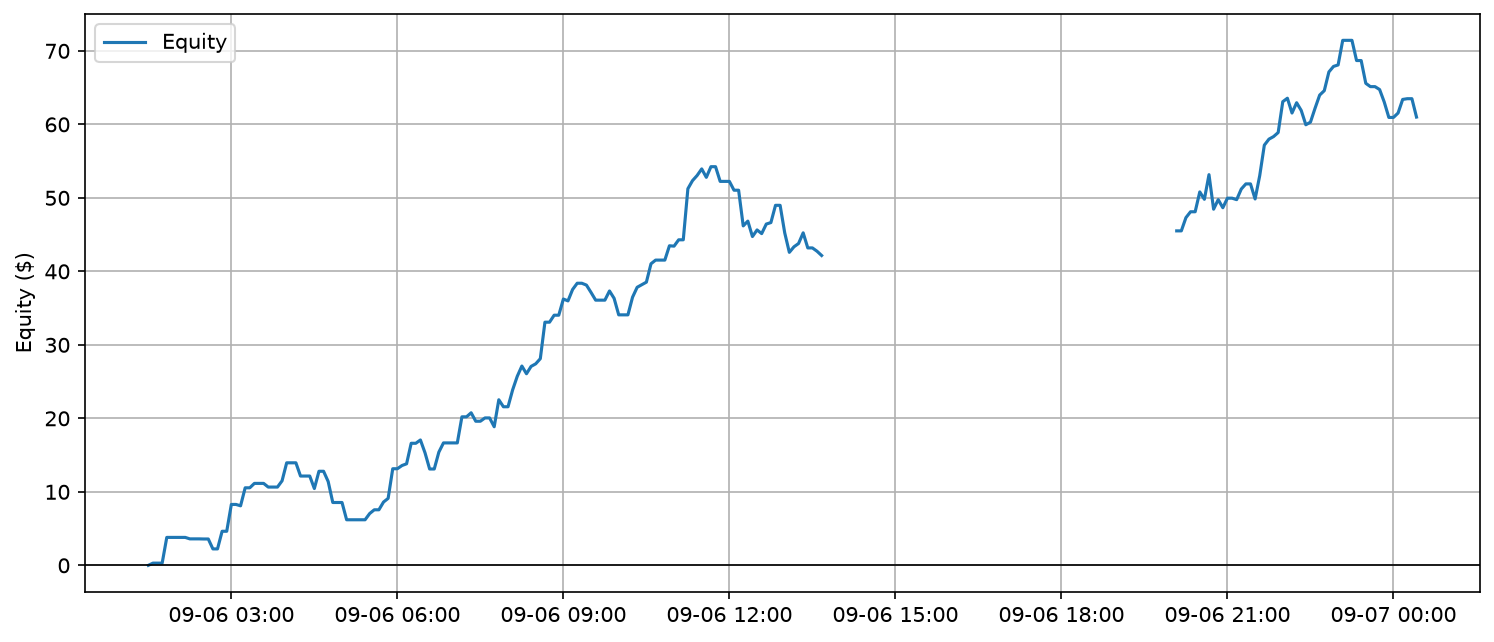
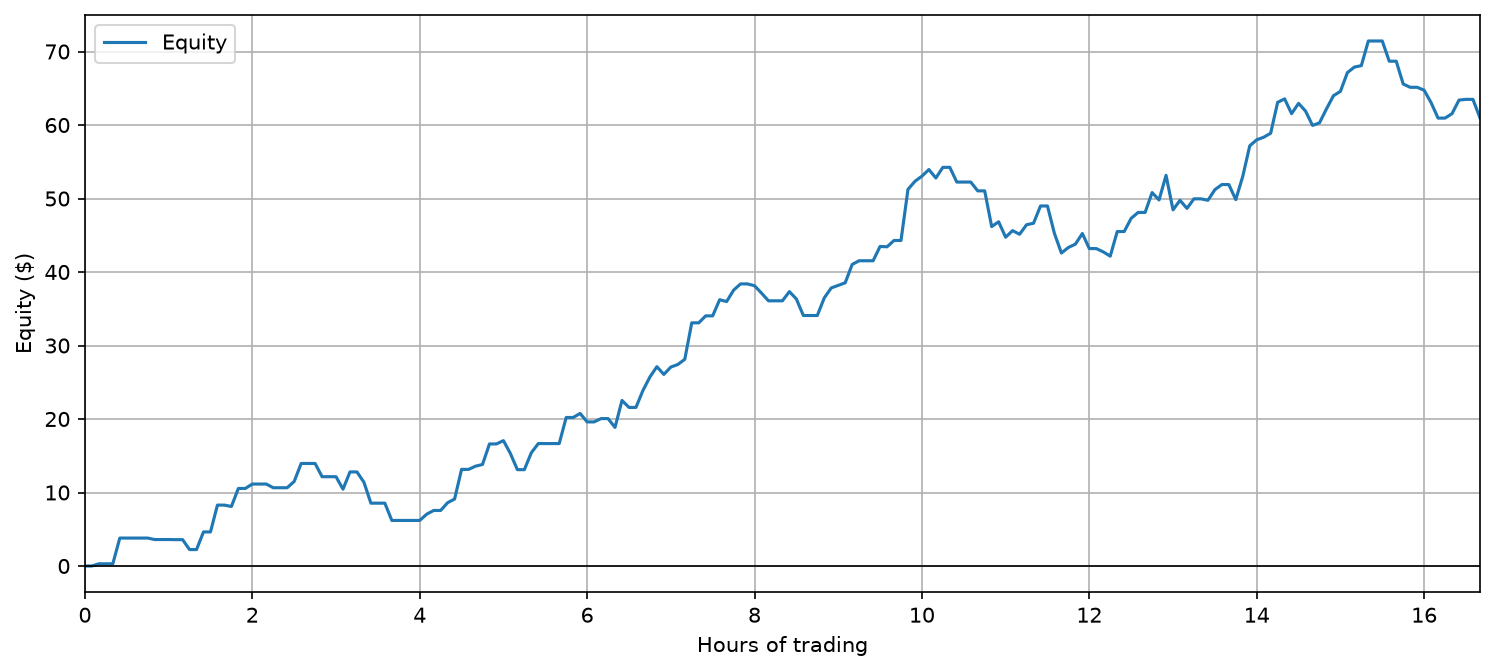
Apply the essay's second revision
Add the order book primer and its diagram to the discrete markets section,
replace the generated experiment notes with the author's own (with a ladder
diagram and the loop period sweeps), drop the first stochastic control
policy chart, and close the gaps in the live run and PPO training charts.

diff --git a/market-making/index.html b/market-making/index.html
@@ -17,6 +17,11 @@ pre { white-space: pre-wrap; overflow-wrap: anywhere; font-size: 13px; }
 figure { margin: 1.5em 0; }
 figure img { display: block; max-width: 100%; height: auto; margin: 0 auto 0.5em; }
 .eq { overflow-x: auto; overflow-y: hidden; }
+ol.facts { list-style: none; counter-reset: fact; padding-left: 2.2em; }
+ol.facts li { counter-increment: fact; text-indent: -1.4em; }
+ol.facts li::before { content: counter(fact) ")"; display: inline-block; width: 1.4em; text-indent: 0; }
+h3.u { font-weight: normal; text-decoration: underline; margin: 1.5em 0 0; }
+h3.u + p { margin-top: 0; }
 </style>
 </head>
 <body>
@@ -63,13 +68,26 @@ figure img { display: block; max-width: 100%; height: auto; margin: 0 auto 0.5em
 
 <h2 id="continuous-vs-discrete-markets">Continuous vs Discrete Markets </h2>
 
-<p>The equations we talked about earlier work under the assumption that the markets they trade are continuous. This means that the minimum price change possible (this is called the tick-size), is small relative to the price of the contract. Truly continuous markets don’t exist. A market that could be effectively modeled as continuous is the Bitcoin market on Binance. The price of Bitcoin is large ($70,000) and the tick size is small ($0.01). On polymarket and other prediction markets, tick sizes are large. Prices exist in a 0.00 to 1.00 range, while their tick sizes are typically $0.01 to $0.001. Using a continuously-modeled equation like AS or GLFT, will fail on these markets.</p>
-
-<p>Once I realized this I completely stopped any further testing and started researching market making for discrete markets.</p>
+<p>The equations we talked about earlier work under the assumption that the markets they trade are continuous. This means that the minimum price change possible (this is called the tick-size), is small relative to the price of the contract. Truly continuous markets don’t exist. A market that could be effectively modeled as continuous is the Bitcoin market on Binance. The price of Bitcoin is large ($70,000) and the tick size is small ($0.01). On polymarket and other prediction markets, tick sizes are large. Prices exist in a 0.00 to 1.00 range, while their tick sizes are typically $0.01 to $0.001. Using a continuously-modeled equation like AS or GLFT, will fail on these markets. Once I realized this I completely stopped any further testing and started researching market making for discrete markets.</p>
 
 <figure>
 <img class="fig-img" src="figs/discrete.png" alt="Polymarket best bid and ask, and histogram of tick changes" loading="lazy">
 <figcaption>Left: the best bid and ask of one 15-minute BTC up/down market. Right: how far the best bid moves each time it changes. Here the $0.01 tick was a median 3.6% of the contract price, vs. about 0.0016 bp of the price for BTC on Binance.</figcaption>
+</figure>
+
+<p>Before we go any deeper, we need to have you (yes, you) develop an accurate mental model of how the actual exchange works to have any hope of creating working strategies. So here are some facts:</p>
+<ol class="facts">
+<li>When an order is sent to the exchange it lands on this thing called a central limit order book (CLOB), this is where buyers (bid orders) and sellers (ask orders) are matched.</li>
+<li>Orders of the same price are placed at the back of that price’s queue</li>
+<li>Orders at the front of the queue get matched first</li>
+<li>If there’s an order waiting at the front of the queue and the opposite order comes in at that order’s price, a match is made, and that trade begins its journey to be confirmed on the polygon blockchain.</li>
+<li>If an order is matched, it is removed from the queue</li>
+<li>If an order is canceled, it is removed from the queue</li>
+</ol>
+
+<figure>
+<img class="fig-img" src="figs/book.png" alt="A central limit order book: a queue of orders at each price" loading="lazy">
+<figcaption>A central limit order book. Each price has its own queue of orders (sizes in shares), and orders are matched from the front of the queue.</figcaption>
 </figure>
 
 
@@ -84,9 +102,8 @@ figure img { display: block; max-width: 100%; height: auto; margin: 0 auto 0.5em
 <p>Following the literature for market-making strategies for discrete markets, quickly brings us to an area of mathematics called Stochastic Optimal Control. This tries to answer how to make optimal decisions under unpredictable conditions. Basically, this will output an action based on a handful of inputs (external factors like order intensities and spread, and internal factors like current position). The external factors are modeled as a markov process, where one combination of market states has a given probability of jumping to another combination of market states. Given these probabilities, and the current position, the <em>potential future value</em> of each decision can be calculated through a process called backward induction. In this case, a decision is which orders should be placed (buy or sell) and how many ticks away from the mid price they should be placed. If there’s a low rate of buy market orders coming into the clob, and the position is very positive, the best decision would most likely be to place a sell order very close to the mid, as there is much urgency to offload inventory in order to keep the bot delta neutral.</p>
 
 <figure>
-<img class="fig-img" src="figs/soc_policy.png" alt="Stochastic optimal control policy" loading="lazy">
 <img class="fig-img" src="figs/soc_policy_drift.png" alt="Stochastic optimal control policy" loading="lazy">
-<figcaption>Optimal policy from backward induction at the start of the session, by inventory and alpha state (0 is the most bearish of the seven states, 6 the most bullish). Top: the policy notebook's model. Bottom: the version with the alpha drift term (inventory penalty 0.05, chosen for illustration because the tuned value was not saved).</figcaption>
+<figcaption>Optimal policy from backward induction at the start of the session, by inventory and alpha state (0 is the most bearish of the seven states, 6 the most bullish), with the alpha drift term (inventory penalty 0.05, chosen for illustration because the tuned value was not saved).</figcaption>
 </figure>
 
 
@@ -123,7 +140,7 @@ figure img { display: block; max-width: 100%; height: auto; margin: 0 auto 0.5em
 
 <figure>
 <img class="fig-img" src="figs/rl_curve.png" alt="PPO trades per episode falling toward zero" loading="lazy">
-<figcaption>Trades per episode during PPO training (stable-baselines3 logs). Steps 344k to 1.19M were trained but not logged.</figcaption>
+<figcaption>Trades per episode during PPO training (stable-baselines3 logs). Steps 344k to 1.19M were trained but not logged, so they are cut out of the x-axis.</figcaption>
 </figure>
 
 
@@ -213,7 +230,7 @@ figure img { display: block; max-width: 100%; height: auto; margin: 0 auto 0.5em
 
 <figure>
 <img class="fig-img" src="figs/live_run.png" alt="Live equity curve" loading="lazy">
-<figcaption>Third live test: 200 five-minute windows from Sep 6 01:25 to Sep 7 00:25 UTC (the gap is a rate-limit halt and restart). Wallet PnL was $60.99; maker rebates, paid out the next day, add about $4.6 (as modelled by the bot), for about $66 in total.</figcaption>
+<figcaption>Third live test: 200 five-minute windows from Sep 6 01:25 to Sep 7 00:25 UTC, plotted by time spent trading (a rate-limit halt and restart is left out). Wallet PnL was $60.99; maker rebates, paid out the next day, add about $4.6 (as modelled by the bot), for about $66 in total.</figcaption>
 </figure>
 
 
@@ -226,25 +243,28 @@ figure img { display: block; max-width: 100%; height: auto; margin: 0 auto 0.5em
 <h2 id="more-strategies">More Strategies </h2>
 
 <p>Now we have a highly-accurate backtest, proven by days of live-trading. We can start asking and testing any questions, and get a probable answer: what happens if we trade multiple assets at the same time? Maybe we could trade two highly correlated markets (like the btc-updown 15m and 5m), and could this smooth out PnL? What happens if we trade low-activity markets, how does that compare with the high-activity one (btc-updown 5m) in terms of profitability and sharpe?</p>
-<div class="experiments">
-<h3>Trade several markets at once?</h3><p>The frozen best strategy was run on BTC and ETH, 5- and 15-minute markets, each with its own models. Together they made about $1,020 over Aug 13 – Sep 13, but the combined Sharpe was about the same as BTC 5m alone on two of three splits: diversification without extra edge.</p>
-<h3>Two correlated markets (BTC 15m + 5m)?</h3><p>On an earlier version of the simulator, trading both books together was exactly the sum of trading each: about 19% more profit, at the same Sharpe. It did not smooth PnL — the 15-minute book added losing sessions (8 → 13 of 96 on validation). No signal combining the two books helped, and a later test of cancelling quotes when a sibling market moved against them did no better than a placebo.</p>
-<h3>Low- vs high-activity markets?</h3><p>Profit and Sharpe stability ranked with activity. BTC 5m (about 420 trades a minute) was the only market with a consistently positive Sharpe; ETH 15m, roughly fifteen times quieter, lost money.</p>
-<figure><img class="fig-img" src="figs/multi_market.png" alt="PnL and activity by market" loading="lazy"><figcaption>The same strategy on four markets: backtest PnL and trades per minute.</figcaption></figure>
-<h3>Other experiments</h3><ul>
-<li><b>Ladders.</b> One order per side beat every deeper ladder (all seven lost to one rung on validation).</li>
-<li><b>When to stop quoting.</b> Quote right up to the bell: 43% of fills, and most of the profit, came in the last minute; stopping 30 s or more early cost money.</li>
-<li><b>What the simulator fixes were worth.</b> Re-scoring one strategy on a fixed sample under each cumulative backtester patch took its return from +$1,851 to +$27.52; the patch for the book revealing a fill before the trade event alone flipped the sign.</li>
-<li><b>Threshold tuning.</b> Tuning the two entry thresholds improved training and made validation worse in 19 of 19 settings.</li>
-<li><b>Order size.</b> Bigger clips did not make more money: edge per share fell, and 40-share orders were the worst.</li>
-<li><b>Skipping bad sessions.</b> A model over 381 pre-session features could not tell profitable 5-minute windows from unprofitable ones beyond chance.</li>
-<li><b>Liquidity rewards.</b> Farming Polymarket&#x27;s liquidity rewards adds income, but only reaches a positive Sharpe at implausibly high reward rates.</li>
-<li><b>Binance as a signal.</b> Quoting off Binance turned fills from adverse to favourable, but the remaining edge was smaller than the spread, and ~120 ms of feed lag finished it off.</li>
-<li><b>Taking liquidity.</b> Every taker strategy lost after fees.</li>
-<li><b>Flattening before the bell.</b> Reducing inventory before settlement lowered returns for every strategy tried.</li>
-<li><b>Loop speed.</b> Running the decision loop at 5 ms instead of 10 ms changed nothing but the number of orders sent.</li>
-</ul>
-</div>
+
+<h3 class="u">Trade several markets at once?</h3>
+<p>My expectation here was that multiple markets would ultimately lead to a higher sharpe as the profit curve would be the cumulative average over multiple uncorrelated curves. However, the differences in sharpe between just trading the BTC 5m and trading it plus the 15m BTC, 5m ETH, and 15m ETH, were miniscule. This was because the BTC 5m has a magnitude more volume traded on it then the next market so its equity curve would eclipse that of any other market.</p>
+
+<h3 class="u">Two correlated markets?</h3>
+<p>I tried to create a strategy that would take into account the correlation between the 5m and the 15m BTC markets. For example, if the bot held a positive 5m position that would reduce the propensity for the bot to take out a positive position in either the 5m or 15m position and allow for one market to hedge the other. But multiple problems became apparent. Firstly, both markets operate on completely different time-scales. The 5m market gets about 10x more trades per minute than the 15m, so if we traded the 5m primarily and used the 15m to hedge, the orders intended to hedge 5m inventory would fill too sparsely and inconsistently to be viable. If we traded the 15m primarily and used the 5m to hedge, the volume of the 15m would not be enough to be profitable in the first place.</p>
+
+<h3 class="u">Ladders?</h3>
+<p>The idea here is to place orders far from the touch (2 ticks out or more) in order to get a better queue position over time and only cancel orders when they get to the adverse-selection danger zone (e.g. near the best bid price when the market is going down). So instead of placing orders where you want them, you cancel orders where you don’t. The main problem here is instead of managing just one order you now have to manage however many you set, maybe 5 or 10 on each side of the book. Polymarket rate limits using a bucket system. Market makers get 40 points per second for order placement and 60 points for order cancels. On average the most successful strategy sends an update every 500ms, so there’s enough allotment for the ladder still. However when tested, the one order still beats multiple orders.</p>
+
+<figure>
+<img class="fig-img" src="figs/ladder.png" alt="A ladder of quotes in the order book, and the rung that gets canceled" loading="lazy">
+<figcaption>A ladder: one 5-share order at each of several prices, 2 or more ticks from the touch. When the market falls 2 ticks, the rung that is now the best bid is canceled; the rest keep their places at the front of their queues.</figcaption>
+</figure>
+
+<h3 class="u">Loop speed?</h3>
+<p>At a certain point in the bot’s development, I realized that two things were important: 1) processing information the instant it becomes available and 2) acting on that information as quickly as possible. Processing the information involves absorbing websocket events from the exchange as they get sent and storing them localling. Determining whether or not an update needs to be sent (the action) involves running the catboost models with that new data, and running the strategy logic, this happens on a loop. One would assume that a faster loop would be more profitable, as this is generally correct, but to what extent?</p>
+
+<figure>
+<img class="fig-img" src="figs/loop_speed.png" alt="Backtest return against loop period" loading="lazy">
+<figcaption>Backtest return against the decision-loop period, by data split. Left: an earlier strategy quoting one tick behind the touch, from 5 to 30 ms. Right: the final strategy at 5, 7 and 10 ms, where the differences were within noise (paired against 10 ms: t = +0.67 at 5 ms, +1.16 at 7 ms) while 5 ms sent about 17% more orders.</figcaption>
+</figure>
 
 <script>
 document.addEventListener("DOMContentLoaded", () => {
